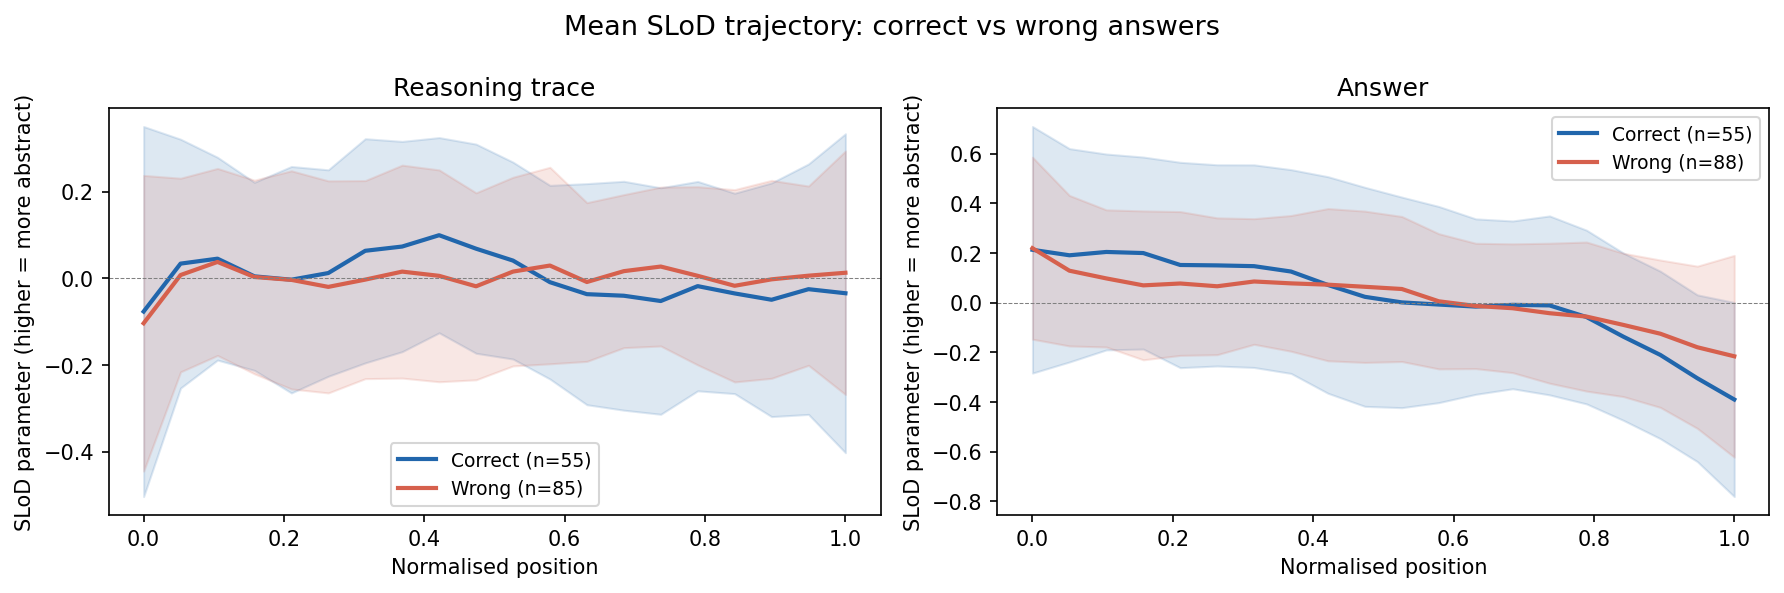
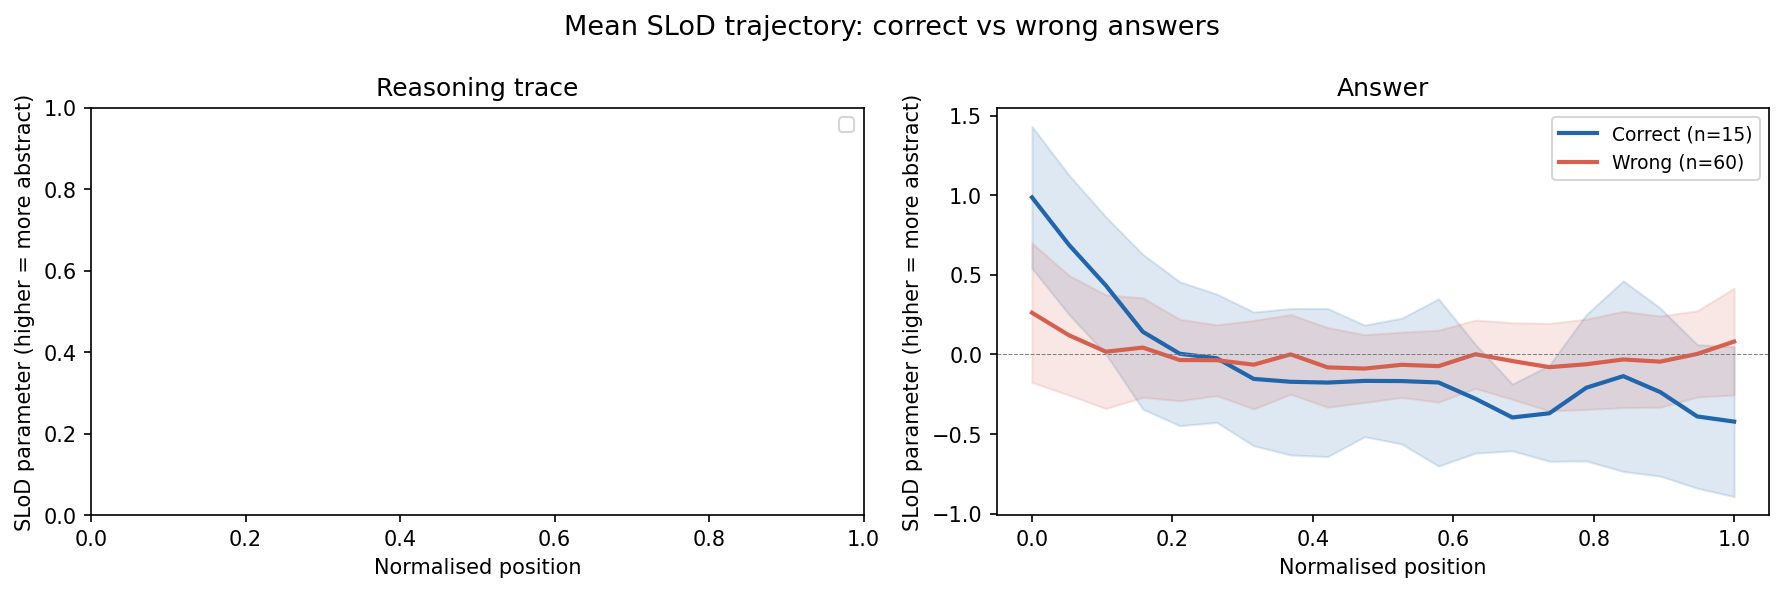
fix: handle unparseable LLM outputs and add retry logic for validation errors, while adding safety checks to trajectory plotting scripts

diff --git a/src/semanticscale/openai_utils.py b/src/semanticscale/openai_utils.py
@@ -4,12 +4,17 @@ from typing import Any
 import json
 
 import openai
+import pydantic_core
 import tenacity
 
 
 def should_retry_openai_exception(exc: BaseException) -> bool:
     """Return whether an OpenAI exception should be retried."""
     if isinstance(exc, json.decoder.JSONDecodeError):
+        return True
+    if isinstance(exc, pydantic_core.ValidationError):
+        return True
+    if isinstance(exc, ValueError):
         return True
     if isinstance(exc, openai.RateLimitError):
         return True

diff --git a/experiments/sh6_frontierscience/scripts/04_plot_trajectories.py b/experiments/sh6_frontierscience/scripts/04_plot_trajectories.py
@@ -125,6 +125,9 @@ def plot_example_trajectories(
     all_samples = correct_sample + wrong_sample
 
     n_plots = len(all_samples)
+    if n_plots == 0:
+        logger.warning("No items with >= %d reasoning chunks; skipping example trajectories plot", MIN_CHUNKS)
+        return
     n_rows = (n_plots + GRID_COLS - 1) // GRID_COLS
     fig, axes = plt.subplots(n_rows, GRID_COLS, figsize=(GRID_COLS * 4, n_rows * 3))
     axes_flat = np.array(axes).flatten()

diff --git a/src/semanticscale/sh6/slod_rank.py b/src/semanticscale/sh6/slod_rank.py
@@ -146,6 +146,8 @@ async def _compare_once(
             text_format=AbstractionWinner,
             **kwargs,
         )
+        if response.output_parsed is None:
+            raise ValueError("LLM returned unparseable output (output_parsed is None)")
         return response.output_parsed.winner
 
     async with semaphore:

diff --git a/experiments/sh6_frontierscience/reports/summary.md b/experiments/sh6_frontierscience/reports/summary.md
@@ -1,0 +1,33 @@
+# SH6 FrontierScience — Results Summary
+
+## Overall Accuracy
+
+| Model slug | Accuracy | Correct | Answered | Errors |
+|---|---|---|---|---|
+| gpt-5.4-nano_reasoning-medium | 37.5% | 60 | 160 | 0 |
+| gpt-5.4-nano_reasoning-medium | 36.9% | 59 | 160 | 0 |
+| gpt-5.4-nano_reasoning-medium | 21.7% | 13 | 60 | 0 |
+
+## gpt-5.4-nano_reasoning-medium — Per-Subject Accuracy
+
+| Subject | Accuracy | Correct | Total | Errors |
+|---|---|---|---|---|
+| chemistry | 43.3% | 26 | 60 | 0 |
+| physics | 40.0% | 28 | 70 | 0 |
+| biology | 20.0% | 6 | 30 | 0 |
+
+## gpt-5.4-nano_reasoning-medium — Per-Subject Accuracy
+
+| Subject | Accuracy | Correct | Total | Errors |
+|---|---|---|---|---|
+| chemistry | 43.3% | 26 | 60 | 0 |
+| biology | 33.3% | 10 | 30 | 0 |
+| physics | 32.9% | 23 | 70 | 0 |
+
+## gpt-5.4-nano_reasoning-medium — Per-Subject Accuracy
+
+| Subject | Accuracy | Correct | Total | Errors |
+|---|---|---|---|---|
+| biology | 30.0% | 6 | 20 | 0 |
+| chemistry | 25.0% | 5 | 20 | 0 |
+| physics | 10.0% | 2 | 20 | 0 |
